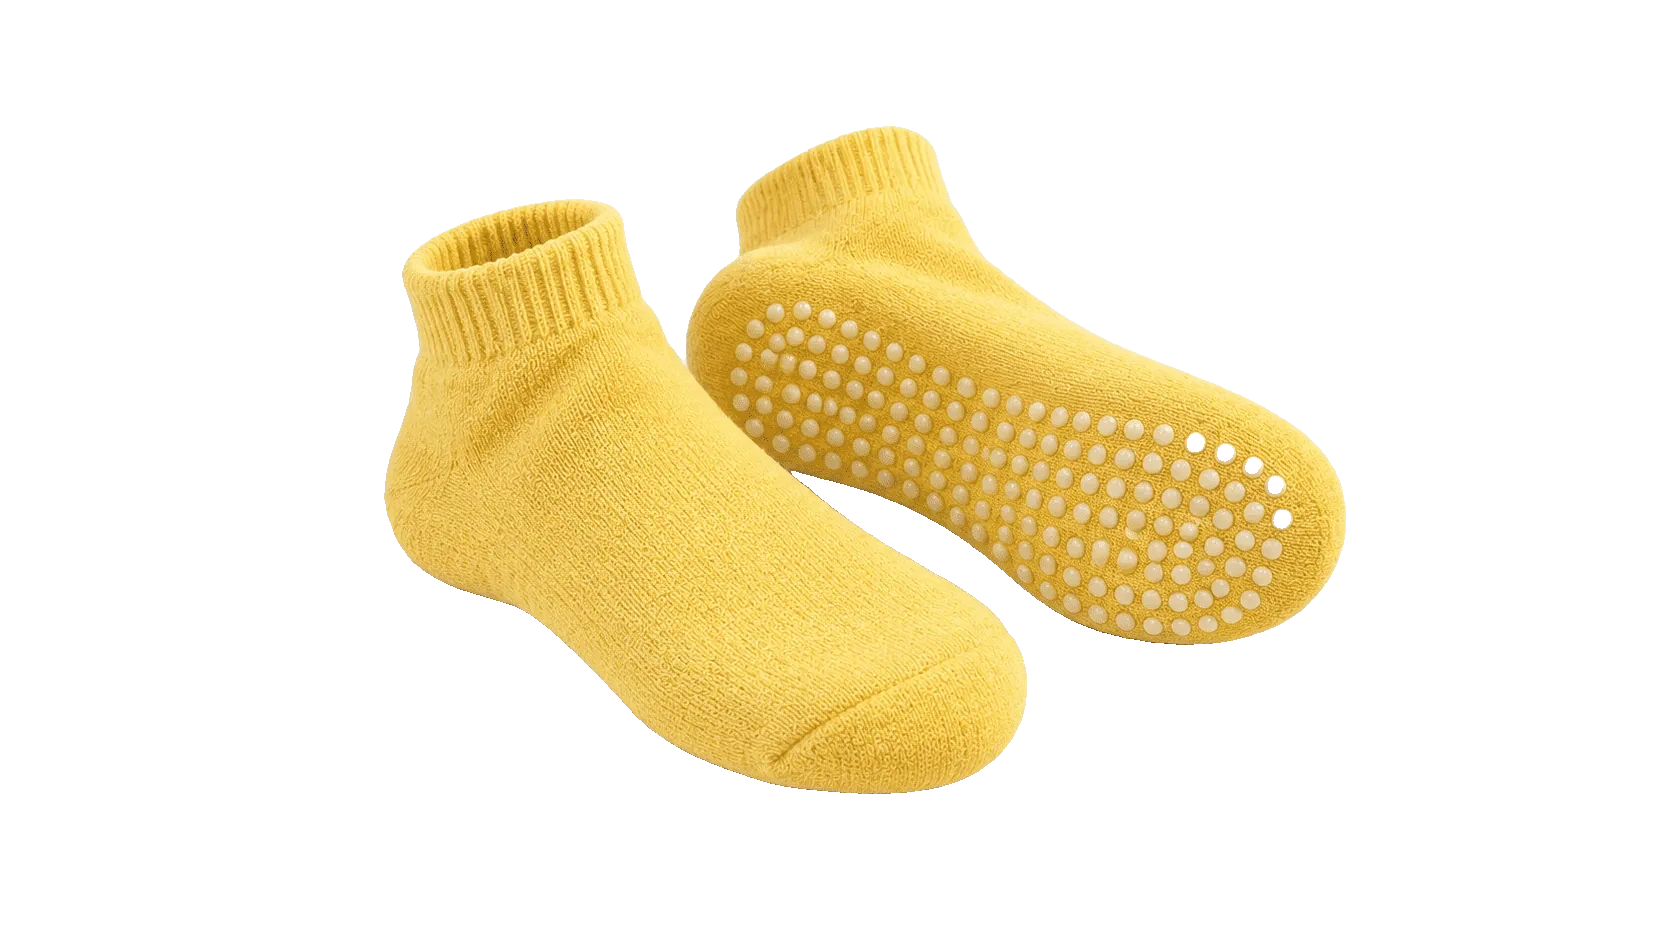
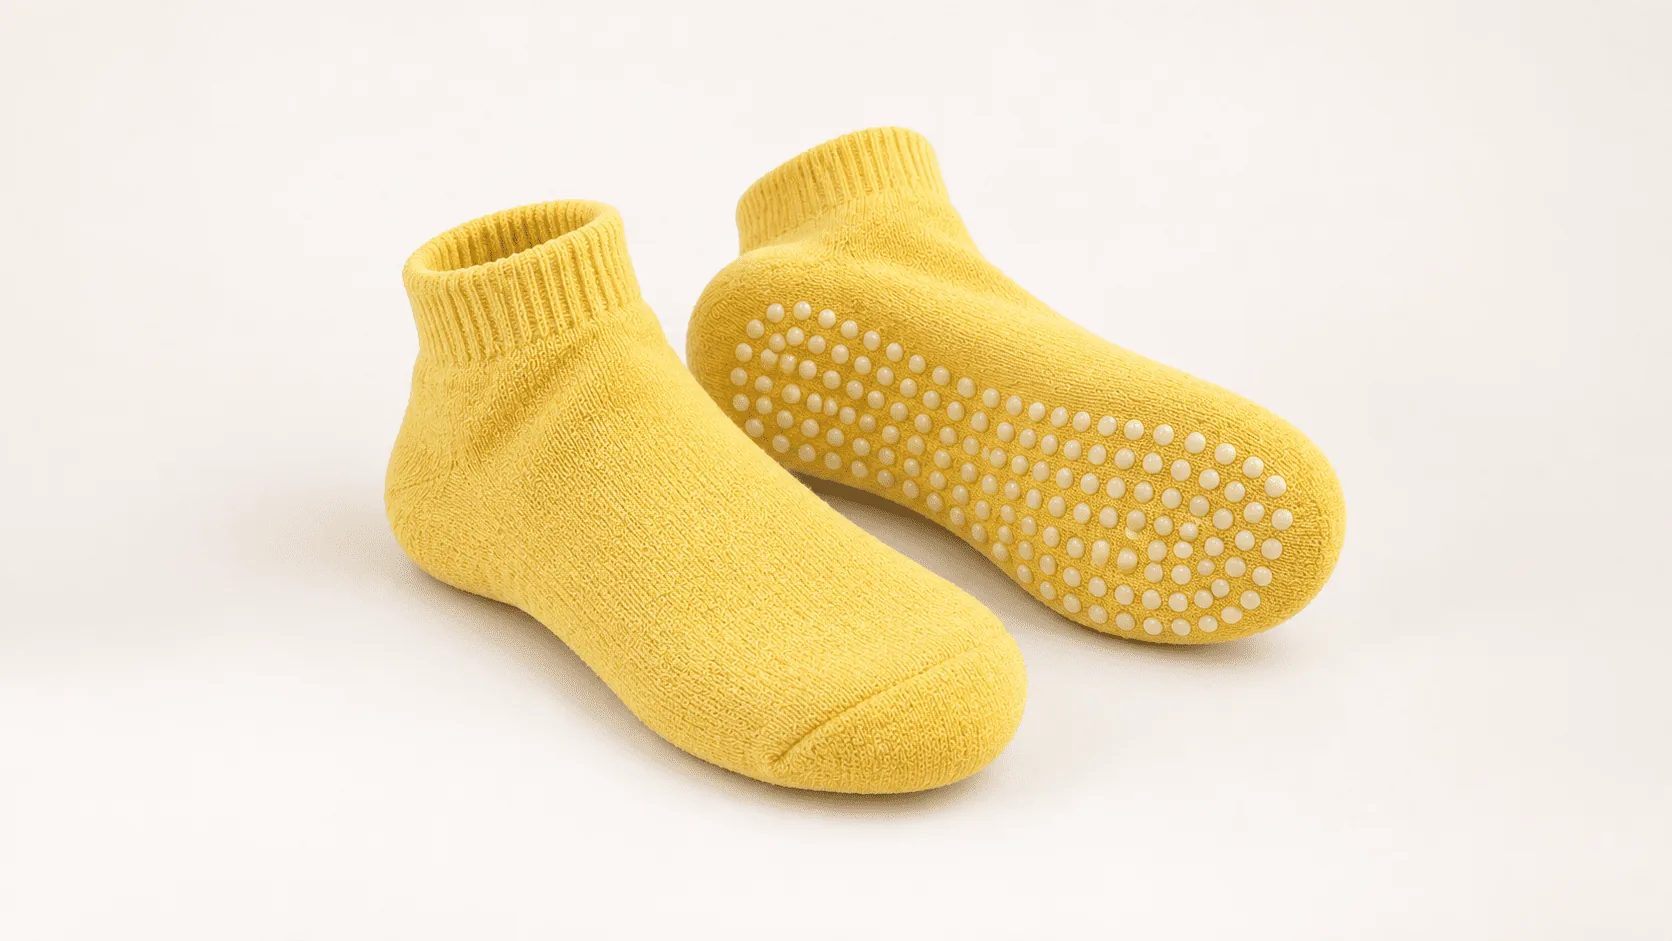
revert(patient-services): I Need Something photos keep their original backgrounds
Visitor Chair photo and no-hover cards stay.

diff --git a/src/app/components/NeedSomething.tsx b/src/app/components/NeedSomething.tsx
@@ -764,14 +764,13 @@ export function NeedSomething({ onClose, initialTab }: NeedSomethingProps) {
                           {card.image ? (
                             /* Product photo — the box has the photo's own 16:9
                                shape, so the whole photo shows at every size and
-                               the product keeps its margin (no crop, no zoom).
-                               Photos are cut out (transparent), so the product
-                               sits straight on the card surface. */
+                               the product keeps its margin (no crop, no zoom). */
                             <>
                               <div
                                 style={{
                                   aspectRatio: "16 / 9",
                                   overflow: "hidden",
+                                  backgroundColor: "#f5f5f5",
                                 }}
                               >
                                 <img
